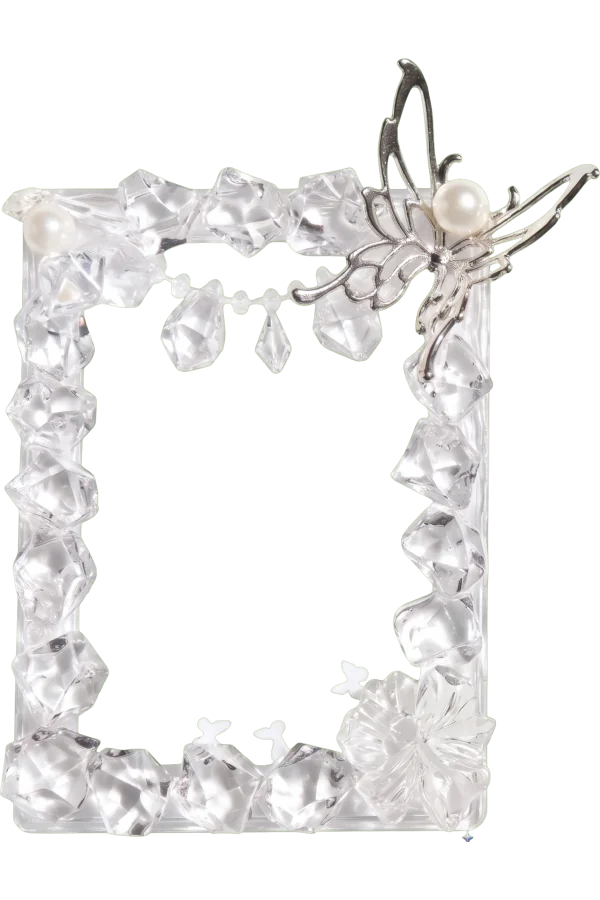
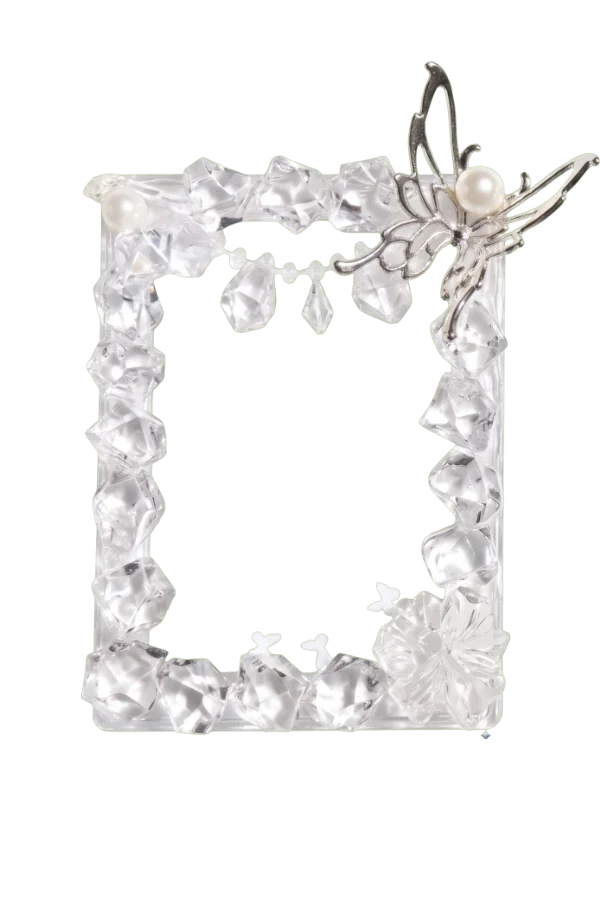
Add files via upload

diff --git a/zt-plus.js b/zt-plus.js
@@ -21,6 +21,7 @@ const ZP_ITEMS = {
   bd_triangle: { n: '삼각 삼성장', k: 'patch', aud: 'mil', d: 'tri', w: 42 },
   bd_anchor: { n: '닻과 별', k: 'patch', aud: 'mil', d: 'anchor' },
   bd_compass: { n: '화살 나침장', k: 'patch', aud: 'mil', d: 'compass', w: 40 },
+  pc_none: { n: '사진만 (틀 없음)', k: 'frame', aud: 'fan', free: 1 },
   pc_basic: { n: '기본 화이트', k: 'frame', aud: 'fan' },
   pc_polaroid: { n: '폴라로이드', k: 'frame', aud: 'fan' },
   pc_holo: { n: '홀로그램', k: 'frame', aud: 'fan' },
@@ -136,6 +137,15 @@ function zpToast(t) { const d = document.createElement('div'); d.className = 'zp
 .pc2 .ph{position:absolute;inset:0;background:#E9ECEF center/cover no-repeat}
 .pc2 .ph.empty{display:flex;align-items:center;justify-content:center;color:#B0B8C1;font-size:12px;font-weight:700}
 .pc2 .lay{position:absolute;inset:0;pointer-events:none;z-index:3}
+.zp-crop{position:fixed;inset:0;z-index:95;background:#0B0D10;display:flex;flex-direction:column;align-items:center;color:#fff;padding-top:max(12px,env(safe-area-inset-top));padding-bottom:max(16px,env(safe-area-inset-bottom))}
+.zp-crop .top{width:100%;display:flex;align-items:center;justify-content:space-between;padding:6px 16px 14px}.zp-crop .top b{font-size:16px}
+.zp-crop .b{height:38px;padding:0 14px;border-radius:999px;background:rgba(255,255,255,.12);font-size:14px;font-weight:700;color:#fff}.zp-crop .b.ok{background:#fff;color:#191F28}
+.zp-crop .vp{position:relative;overflow:hidden;border-radius:14px;touch-action:none;background:#222;margin-top:auto;box-shadow:0 0 0 2px rgba(255,255,255,.85)}
+.zp-crop .vp img{position:absolute;left:50%;top:50%;max-width:none;user-select:none;-webkit-user-drag:none;pointer-events:none}
+.zp-crop .vp .g{position:absolute;inset:0;pointer-events:none;background:linear-gradient(rgba(255,255,255,.25),rgba(255,255,255,.25)) 33.33% 0/1px 100% no-repeat,linear-gradient(rgba(255,255,255,.25),rgba(255,255,255,.25)) 66.66% 0/1px 100% no-repeat,linear-gradient(90deg,rgba(255,255,255,.25),rgba(255,255,255,.25)) 0 33.33%/100% 1px no-repeat,linear-gradient(90deg,rgba(255,255,255,.25),rgba(255,255,255,.25)) 0 66.66%/100% 1px no-repeat}
+.zp-crop .ctl{display:flex;align-items:center;gap:12px;width:min(82vw,340px);margin-top:18px;font-weight:800;opacity:.9}.zp-crop .ctl input{flex:1;accent-color:#fff}
+.zp-crop .ctl2{display:flex;gap:8px;margin-top:12px}.zp-crop .ctl2 button{height:36px;padding:0 14px;border-radius:999px;background:rgba(255,255,255,.12);font-size:13px;font-weight:700;color:#fff}
+.zp-crop .hint{font-size:12px;opacity:.55;margin:12px 0 auto;padding:0 20px;text-align:center}
 .zp-slots{display:flex;flex-direction:column;gap:8px;margin-top:4px;text-align:left}
 .zp-slot{display:flex;align-items:center;gap:12px;text-align:left;padding:13px 14px;border-radius:14px;border:1.5px solid #E5E8EB;background:#fff;width:100%}
 .zp-slot .ic{display:flex;color:#191F28}.zp-slot .ic svg{width:22px!important;height:22px!important}.zp-slot .tx{flex:1;display:flex;flex-direction:column}.zp-slot b{font-size:15px;color:#191F28}.zp-slot small{font-size:12px;color:#8B95A1;margin-top:2px}
@@ -315,7 +325,7 @@ async function zpLoadItems() {
     const [a, b] = await Promise.all([sb.from('shop_items').select('id,price,active'), sb.from('user_items').select('item_id').eq('user_id', me.id)]);
     if (a.error) { zp.shopOK = false; return; }
     zp.price = {}; (a.data || []).forEach(r => { if (r.active) zp.price[r.id] = r.price; });
-    zp.owned = new Set((b.data || []).map(r => r.item_id));
+    zp.owned = new Set((b.data || []).map(r => r.item_id)); zp.owned.add('pc_none');
   } catch (e) { zp.shopOK = false; }
 }
 async function zpLoadPCs() {
@@ -486,7 +496,7 @@ async function zpShopRender(el) {
   const cats = ZP_CATS[zpAud()].concat([['inv', '보관함']]); if (!zp.cat || !cats.some(c => c[0] === zp.cat)) zp.cat = cats[0][0];
   const inv = zp.cat === 'inv', eq = (me && me.equip) || {};
   const list = Object.entries(ZP_ITEMS).filter(([id, it]) => it.aud === zpAud() && zp.price[id] !== undefined && (inv ? zp.owned.has(id) : it.k === zp.cat));
-  const cnt = Object.keys(ZP_ITEMS).filter(id => ZP_ITEMS[id].aud === zpAud() && zp.owned.has(id)).length;
+  const cnt = Object.keys(ZP_ITEMS).filter(id => ZP_ITEMS[id].aud === zpAud() && !ZP_ITEMS[id].free && zp.owned.has(id)).length;
   const note = inv ? '산 아이템은 모두 여기 있어요. 테마와 패치는 여기서 바꿔 끼울 수 있어요' : zp.cat === 'frame' ? '틀을 사면 홈에서 원하는 사진으로 포토카드를 만들 수 있어요' : zp.cat === 'sticker' ? '포토카드를 꾸밀 때 쓸 수 있는 스티커예요' : zp.cat === 'theme' ? '홈 프로필 카드의 색이 바뀌어요. 연인에게도 보여요 · 눌러서 미리보기' : '프로필 카드 오른쪽 위에 붙어요. 연인에게도 보여요 · 눌러서 미리보기';
   el.innerHTML = `<div class="zp-card mt-2 flex items-center gap-3" style="background:linear-gradient(135deg,#191F28,#2B3340);color:#fff;border:0">${zpMug('md')}<div><div class="text-[12px] opacity-70">내 무궁화</div><div class="text-[24px] font-black tabular-nums zp-bal2">${zpFmt(zp.bal)}</div></div><div class="ml-auto text-right text-[11px] opacity-70 leading-relaxed">매일 출석하면<br>1~30개 · 행운 100개</div></div>
    <div class="zp-chips mt-4">${cats.map(([k, n]) => `<button class="${k === zp.cat ? 'on' : ''}" onclick="zp.cat='${k}';zpShopRender(zpShopEl())">${n}${k === 'inv' && cnt ? ` ${cnt}` : ''}</button>`).join('')}</div>
@@ -549,7 +559,7 @@ async function zpEquip(slot, id, quiet) {
 }
 
 /* ---------- 포토카드 ---------- */
-const ZP_INS = {"pf_amethyst": [11.3, 1.7, 6.2, 4.3], "pf_antique": [7.2, 2.3, 7.8, 0.7], "pf_blackcat": [6.9, 2.5, 6.2, 2.7], "pf_candy": [7.8, 3.0, 6.4, 1.8], "pf_clover": [4.3, 3.3, 5.0, 1.2], "pf_cookie": [7.4, 0.7, 5.9, 3.5], "pf_galaxy": [5.3, 0.7, 4.7, 1.8], "pf_gamer": [8.3, 4.7, 9.2, 5.0], "pf_gothic": [6.6, 2.2, 2.2, 1.8], "pf_ice": [20.4, 18.7, 7.6, 3.0], "pf_rainbow": [5.2, 0.5, 5.1, 0.0], "pf_ribbon": [6.8, 2.2, 5.8, 3.0], "pf_seashell": [5.4, 2.7, 6.4, 1.8], "pf_silver": [7.1, 3.2, 6.2, 4.8], "pf_silverfly": [10.3, 3.3, 5.0, 3.2], "pf_aqua": [8.0, 3.0, 6.3, 3.2], "pf_opal": [10.9, 4.2, 7.8, 5.2], "pf_aurora": [10.7, 4.8, 6.8, 3.5], "pf_mermaid": [7.9, 2.3, 5.6, 2.7], "pf_angelheart": [8.2, 2.3, 5.1, 2.7], "pf_mint": [9.4, 2.8, 8.0, 2.7], "pf_icefly": [9.9, 11.3, 3.4, 3.2]};
+const ZP_INS = {"pf_amethyst": [9.8, 4.2, 9.8, 4.2], "pf_antique": [8.2, 2.3, 8.2, 2.3], "pf_blackcat": [6.6, 2.7, 6.6, 2.7], "pf_candy": [7.6, 3.0, 7.6, 3.0], "pf_clover": [5.6, 3.2, 5.6, 3.2], "pf_cookie": [7.8, 3.4, 7.8, 3.4], "pf_galaxy": [5.5, 1.8, 5.5, 1.8], "pf_gamer": [8.9, 5.0, 8.9, 5.0], "pf_gothic": [6.0, 3.7, 6.0, 3.7], "pf_ice": [18.9, 16.2, 18.9, 16.2], "pf_rainbow": [5.4, 0.5, 5.4, 0.5], "pf_ribbon": [6.6, 3.0, 6.6, 3.0], "pf_seashell": [6.3, 2.7, 6.3, 2.7], "pf_silver": [7.3, 4.7, 7.3, 4.7], "pf_silverfly": [7.7, 3.3, 7.7, 3.3], "pf_aqua": [7.2, 3.2, 7.2, 3.2], "pf_opal": [9.8, 5.1, 9.8, 5.1], "pf_aurora": [9.3, 4.7, 9.3, 4.7], "pf_mermaid": [6.9, 2.7, 6.9, 2.7], "pf_angelheart": [6.8, 2.7, 6.8, 2.7], "pf_mint": [8.7, 2.8, 8.7, 2.8], "pf_icefly": [9.9, 10.5, 9.9, 10.5]};
 const ZP_TW = [[9, 6], [88, 9], [94, 42], [6, 58], [90, 88], [14, 93], [50, 4], [52, 96]];
 function zpPCHTML(c, mini, edit) {
   const d = c.deco || {}, fr = ZP_ITEMS[c.frame] ? c.frame : 'pc_basic';
@@ -557,25 +567,24 @@ function zpPCHTML(c, mini, edit) {
   const sk = (d.st || []).map((s, i) => `<div class="sk ${edit && edit.sel === i ? 'sel' : ''}" data-i="${i}" style="left:${+s[1] || 50}%;top:${+s[2] || 50}%;--s:${Math.min(2.2, Math.max(.5, +s[3] || 1))}">${zpStkSVG(String(s[0]))}</div>`).join('');
   const it = ZP_ITEMS[fr]; let ov = '';
   if (it.img) {
-    const u = `${fr}.webp?v=4`; ov = `<i class="fimg" style="background-image:url('${u}')"></i>`;
+    const u = `${fr}.webp?v=5`; ov = `<i class="fimg" style="background-image:url('${u}')"></i>`;
     if (it.gem) ov += `<i class="gl" style="-webkit-mask-image:url('${u}');mask-image:url('${u}')"></i>` + ZP_TW.map(([x, y], i) => `<i class="tw" style="left:${x}%;top:${y}%;animation-delay:${(i * .37).toFixed(2)}s"></i>`).join('');
   }
   return `<div class="pc2 pcf-${fr}${it.img ? ' pfi' : ''}${ZP_INS[fr] ? ' fit' : ''}">${fr === 'pc_army' ? '<i class="tag"></i>' : ''}<div class="ph ${photo ? '' : 'empty'}" style="${ZP_INS[fr] ? `inset:${ZP_INS[fr][0]}% ${ZP_INS[fr][1]}% ${ZP_INS[fr][2]}% ${ZP_INS[fr][3]}%;border-radius:4cqw;` : ''}${photo ? `background-image:url('${photo}')` : ''}">${photo ? '' : (mini ? '' : '사진을 넣어주세요')}</div>${ov}<div class="lay">${sk}</div>${d.cap ? `<div class="cap">${esc(String(d.cap).slice(0, 24))}</div>` : ''}</div>`;
 }
 function zpPCHome() {
   const box = q('zp-pc-home'); if (!box) return;
-  if (!zp.pcs.length) { box.innerHTML = `<button class="zp-pc-add" style="min-height:236px" onclick="zpPCNew()"><span class="plus">+</span><b class="text-[15px] text-[#191F28]">무궁화를 모으고 포토카드를 만들어 추가하세요</b><span class="text-[12px]">상점에서 포토카드 틀을 사면 원하는 사진으로 꾸밀 수 있어요</span></button>`; return; }
+  if (!zp.pcs.length) { box.innerHTML = `<button class="zp-pc-add" style="min-height:236px" onclick="zpPCNew()"><span class="plus">+</span><b class="text-[15px] text-[#191F28]">포토카드를 만들어 추가하세요</b><span class="text-[12px]">사진만 올려도 되고, 상점에서 틀을 사면 더 예쁘게 꾸밀 수 있어요</span></button>`; return; }
   /* 큰 포토카드 한 장 · 옆으로 밀면 큐브처럼 돌아가요 (마지막 면은 새 포토카드 추가) */
   const W = Math.min(innerWidth * .74, 300), n = zp.pcs.length + 1;
   zp.pcIdx = Math.min(zp.pcIdx || 0, n - 1);
   box.innerHTML = `<div class="zp-pchome"><div class="cw" style="width:${W}px;height:${W * 1.5}px"><div class="cube"><div class="face f0"></div><div class="face f1"></div></div></div><div class="dots"></div></div>`;
-  const face = i => i < zp.pcs.length ? zpPCHTML(zp.pcs[i]) : `<div class="zp-pc-add" style="height:100%;border-radius:14px;padding:20px"><span class="plus">+</span><b class="text-[14px] text-[#191F28]">새 포토카드 만들기</b><span class="text-[11px]">상점에서 틀을 사면 원하는 사진으로 꾸밀 수 있어요</span></div>`;
+  const face = i => i < zp.pcs.length ? zpPCHTML(zp.pcs[i]) : `<div class="zp-pc-add" style="height:100%;border-radius:14px;padding:20px"><span class="plus">+</span><b class="text-[14px] text-[#191F28]">새 포토카드 만들기</b><span class="text-[11px]">사진만 올려도 돼요</span></div>`;
   zpCube(box.querySelector('.cw'), { n, idx: zp.pcIdx, face, onIndex: i => { zp.pcIdx = i; const d = box.querySelector('.dots'); if (d) d.innerHTML = n > 1 ? Array.from({ length: n }, (_, k) => `<i class="${k === i ? 'on' : ''} ${k === n - 1 ? 'add' : ''}"></i>`).join('') : ''; }, onTap: i => i < zp.pcs.length ? zpPCView(zp.pcs[i].id) : zpPCNew() });
 }
 function zpPCNew() {
-  const fr = Object.keys(ZP_ITEMS).filter(k => ZP_ITEMS[k].k === 'frame' && zp.owned.has(k));
-  if (!fr.length) { zpToast('먼저 상점에서 포토카드 틀을 골라주세요'); return zpOpenShop('frame'); }
-  zpPCEdit(null, fr[0]);
+  const fr = Object.keys(ZP_ITEMS).filter(k => ZP_ITEMS[k].k === 'frame' && k !== 'pc_none' && zp.owned.has(k));
+  zpPCEdit(null, fr[0] || 'pc_none');
 }
 /* 포토카드 크게 보기 — 옆으로 밀면 큐브처럼 돌아가며 다음 카드로 */
 /* 큐브 넘기기 (홈 · 크게 보기 공용) */
@@ -639,7 +648,7 @@ function zpPCERender() {
   <div class="flex-1 overflow-y-auto px-5" style="padding-bottom:max(24px,env(safe-area-inset-bottom))">
    <div id="zp-pce-card" style="width:min(62vw,250px);margin:8px auto 0">${zpPCHTML(E, false, E)}</div>
    <p class="text-center text-[11px] text-[#8B95A1] mt-2">스티커를 끌어서 옮기고, 눌러서 고를 수 있어요</p>
-   <label class="block mt-4 h-12 rounded-2xl bg-white border border-[#E5E8EB] text-[14px] font-bold flex items-center justify-center gap-2 cursor-pointer"><input type="file" accept="image/*" class="hidden" onchange="zpPCPhoto(this)">${E.photo ? '사진 바꾸기' : '사진 넣기'}</label>
+   <div class="flex gap-2 mt-4"><label class="flex-1 h-12 rounded-2xl bg-white border border-[#E5E8EB] text-[14px] font-bold flex items-center justify-center gap-2 cursor-pointer"><input type="file" accept="image/*" class="hidden" onchange="zpPCPhoto(this)">${E.photo ? '사진 바꾸기' : '사진 넣기'}</label>${E.photo ? `<button onclick="zpCrop()" class="flex-1 h-12 rounded-2xl bg-white border border-[#E5E8EB] text-[14px] font-bold">자르기 · 크기 조절</button>` : ''}</div>
    <div class="text-[13px] font-extrabold mt-5 mb-2">틀</div>
    <div class="zp-chips">${frames.map(k => { const own = zp.owned.has(k); return `<button class="${E.frame === k ? 'on' : ''}" onclick="${own ? `zpE.frame='${k}';zpPCERender()` : `zpOpenShop('frame')`}">${esc(ZP_ITEMS[k].n)}${own ? '' : ' · 잠김'}</button>`; }).join('')}</div>
    <div class="text-[13px] font-extrabold mt-5 mb-2">문구</div>
@@ -650,6 +659,48 @@ function zpPCERender() {
    ${E.id ? `<button onclick="zpPCDel(${E.id},{closest:()=>({remove(){closeModal('zp-pce')}})})" class="w-full mt-6 text-[13px] text-[#8B95A1] underline">이 포토카드 삭제</button>` : ''}
   </div>`;
   zpPCEBind();
+}
+/* 사진 자르기 · 크기 조절 (끌어서 옮기고, 두 손가락이나 막대로 확대) */
+function zpCrop() {
+  let im = zpE.src;
+  if (!im) { if (!zpE.photo) return; im = new Image(); im.onload = () => { zpE.src = im; zpE.crop = null; zpCrop(); }; im.src = zpE.photo; return; }
+  let m = q('zp-crop'); if (!m) { m = document.createElement('div'); m.id = 'zp-crop'; document.body.appendChild(m); }
+  const VW = Math.min(innerWidth * .82, 340), VH = VW * 1.5, base = Math.max(VW / im.naturalWidth, VH / im.naturalHeight);
+  let st = zpE.crop ? { ...zpE.crop } : { z: 1, x: 0, y: 0, r: 0 };
+  m.className = 'zp-crop';
+  m.innerHTML = `<div class="top"><button class="b" data-a="x">취소</button><b>자르기 · 크기 조절</b><button class="b ok" data-a="ok">완료</button></div>
+   <div class="vp" style="width:${VW}px;height:${VH}px"><img src="${im.src}" draggable="false"><i class="g"></i></div>
+   <div class="ctl"><span>－</span><input type="range" min="1" max="4" step="0.01" value="${st.z}"><span>＋</span></div>
+   <div class="ctl2"><button data-a="rot">↻ 90° 돌리기</button><button data-a="reset">처음대로</button></div>
+   <p class="hint">사진을 끌어서 옮기고, 두 손가락으로 벌려 크기를 바꿀 수 있어요</p>`;
+  const vp = m.querySelector('.vp'), img = m.querySelector('img'), rng = m.querySelector('input');
+  const dims = () => { const rot = st.r % 180 !== 0, iw = rot ? im.naturalHeight : im.naturalWidth, ih = rot ? im.naturalWidth : im.naturalHeight, b = Math.max(VW / iw, VH / ih); return { iw, ih, b }; };
+  const clamp = () => { const { iw, ih, b } = dims(), s = b * st.z, mx = Math.max(0, (iw * s - VW) / 2), my = Math.max(0, (ih * s - VH) / 2); st.x = Math.max(-mx, Math.min(mx, st.x)); st.y = Math.max(-my, Math.min(my, st.y)); };
+  const draw = () => { clamp(); const { b } = dims(), s = b * st.z; img.style.width = im.naturalWidth * s + 'px'; img.style.height = im.naturalHeight * s + 'px'; img.style.transform = `translate(-50%,-50%) translate(${st.x}px,${st.y}px) rotate(${st.r}deg)`; rng.value = st.z; };
+  draw();
+  const pts = new Map(); let last = null;
+  vp.onpointerdown = e => { vp.setPointerCapture(e.pointerId); pts.set(e.pointerId, [e.clientX, e.clientY]); last = null; };
+  vp.onpointermove = e => {
+    if (!pts.has(e.pointerId)) return; const prev = pts.get(e.pointerId); pts.set(e.pointerId, [e.clientX, e.clientY]);
+    if (pts.size === 1) { st.x += e.clientX - prev[0]; st.y += e.clientY - prev[1]; }
+    else { const [a, b2] = [...pts.values()], d = Math.hypot(a[0] - b2[0], a[1] - b2[1]); if (last) { const nz = Math.max(1, Math.min(4, st.z * d / last)); st.x *= nz / st.z; st.y *= nz / st.z; st.z = nz; } last = d; }
+    draw();
+  };
+  vp.onpointerup = vp.onpointercancel = e => { pts.delete(e.pointerId); last = null; };
+  vp.addEventListener('wheel', e => { e.preventDefault(); const nz = Math.max(1, Math.min(4, st.z * (e.deltaY < 0 ? 1.08 : .92))); st.x *= nz / st.z; st.y *= nz / st.z; st.z = nz; draw(); }, { passive: false });
+  rng.oninput = () => { const nz = +rng.value; st.x *= nz / st.z; st.y *= nz / st.z; st.z = nz; draw(); };
+  m.onclick = e => {
+    const a = e.target.closest('[data-a]'); if (!a) return; const k = a.dataset.a;
+    if (k === 'x') { m.className = 'hidden'; m.innerHTML = ''; if (!zpE.photo) zpE.src = null; return; }
+    if (k === 'rot') { st.r = (st.r + 90) % 360; st.x = st.y = 0; draw(); return; }
+    if (k === 'reset') { st = { z: 1, x: 0, y: 0, r: 0 }; draw(); return; }
+    if (k === 'ok') {
+      const W = 600, H = 900, k2 = W / VW, c = document.createElement('canvas'); c.width = W; c.height = H; const g = c.getContext('2d'), { b } = dims(), s = b * st.z * k2;
+      g.fillStyle = '#fff'; g.fillRect(0, 0, W, H); g.translate(W / 2 + st.x * k2, H / 2 + st.y * k2); g.rotate(st.r * Math.PI / 180); g.drawImage(im, -im.naturalWidth * s / 2, -im.naturalHeight * s / 2, im.naturalWidth * s, im.naturalHeight * s);
+      let u = c.toDataURL('image/jpeg', .82); if (u.length > 560000) u = c.toDataURL('image/jpeg', .6);
+      zpE.photo = u; zpE.crop = st; m.className = 'hidden'; m.innerHTML = ''; zpPCERender();
+    }
+  };
 }
 function zpPCECard() { const c = q('zp-pce-card'); if (c) { c.innerHTML = zpPCHTML(zpE, false, zpE); zpPCEBind(); } }
 function zpStkAdd(k) { if (zpE.deco.st.length >= 12) return zpToast('스티커는 12개까지 붙일 수 있어요'); zpE.deco.st.push([k, 30 + Math.random() * 40, 25 + Math.random() * 45, 1]); zpE.sel = zpE.deco.st.length - 1; zpPCERender(); }
@@ -667,7 +718,7 @@ function zpPCEBind() {
 function zpPCPhoto(inp) {
   const f = inp.files && inp.files[0]; inp.value = ''; if (!f || (typeof fileOK === 'function' && !fileOK(f, 'img'))) return;
   const url = URL.createObjectURL(f), im = new Image();
-  im.onload = () => { const W = 600, H = 900, c = document.createElement('canvas'); c.width = W; c.height = H; const s = Math.max(W / im.width, H / im.height), w = im.width * s, h = im.height * s; c.getContext('2d').drawImage(im, (W - w) / 2, (H - h) / 2, w, h); let u = c.toDataURL('image/jpeg', .82); if (u.length > 560000) u = c.toDataURL('image/jpeg', .6); zpE.photo = u; URL.revokeObjectURL(url); zpPCERender(); };
+  im.onload = () => { zpE.src = im; zpE.crop = null; zpCrop(); };
   im.onerror = () => showAlert('알림', '사진을 열 수 없어요. 다른 사진을 골라주세요.'); im.src = url;
 }
 async function zpPCSave() {

diff --git a/service-worker.js b/service-worker.js
@@ -1,4 +1,4 @@
-const C='zzamtiger-v78',A=['./','index.html','manifest.json','logo.png','icon-192.png','tiger_cheer.png','splash.jpg','card_hana.png','card_shinhan.png','card_ibk.png','card_kb.png','tiger_recruit.svg','tiger_ib.png','tiger_ilb.png','tiger_sb.png','tiger_bj.png','gf_cat.png','gf_bear.png','passbook.jpg','questions.js','px.js','route.js','stars.js','starq.js','zt-plus.js','shop_badges.png','shop_themes.png','rl_car.png','rl_wheelL.png','rl_wheelR.png','px_cream.jpg','px_serum.jpg','px_toner.jpg','px_mask.jpg','px_sun.jpg','px_cleansing.jpg','px_trouble.jpg','px_makeup.jpg','px_men.jpg','px_hair.jpg','px_body.jpg','px_lip.jpg'];
+const C='zzamtiger-v80',A=['./','index.html','manifest.json','logo.png','icon-192.png','tiger_cheer.png','splash.jpg','card_hana.png','card_shinhan.png','card_ibk.png','card_kb.png','tiger_recruit.svg','tiger_ib.png','tiger_ilb.png','tiger_sb.png','tiger_bj.png','gf_cat.png','gf_bear.png','passbook.jpg','questions.js','px.js','route.js','stars.js','starq.js','zt-plus.js','shop_badges.png','shop_themes.png','rl_car.png','rl_wheelL.png','rl_wheelR.png','px_cream.jpg','px_serum.jpg','px_toner.jpg','px_mask.jpg','px_sun.jpg','px_cleansing.jpg','px_trouble.jpg','px_makeup.jpg','px_men.jpg','px_hair.jpg','px_body.jpg','px_lip.jpg'];
 self.addEventListener('install',e=>{e.waitUntil(caches.open(C).then(c=>c.addAll(A)).then(()=>self.skipWaiting()))});
 self.addEventListener('activate',e=>{e.waitUntil(caches.keys().then(k=>Promise.all(k.filter(x=>x!==C).map(x=>caches.delete(x)))).then(()=>self.clients.claim()))});
 self.addEventListener('fetch',e=>{const r=e.request;if(r.method!=='GET'||new URL(r.url).origin!==location.origin)return;
